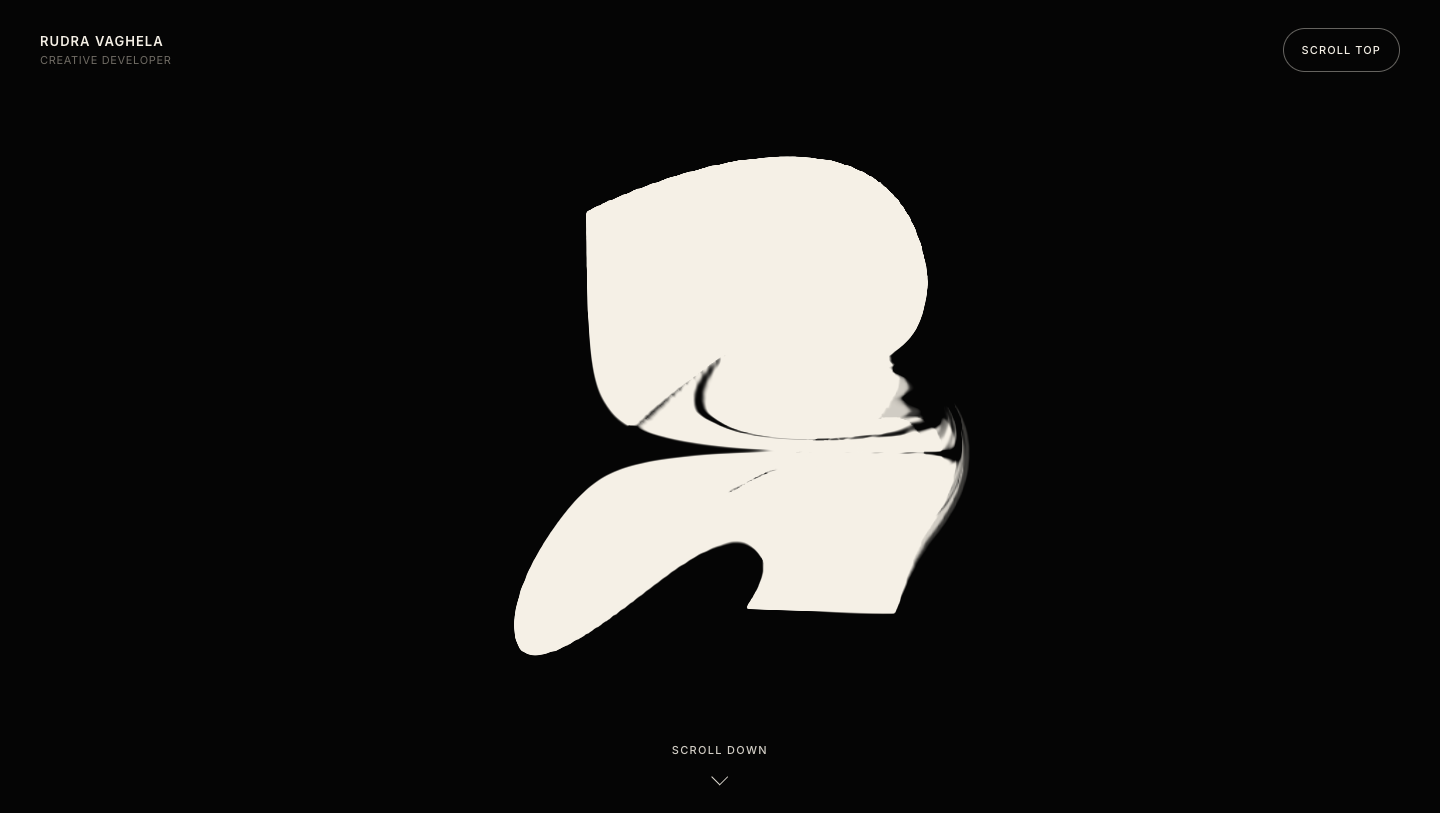
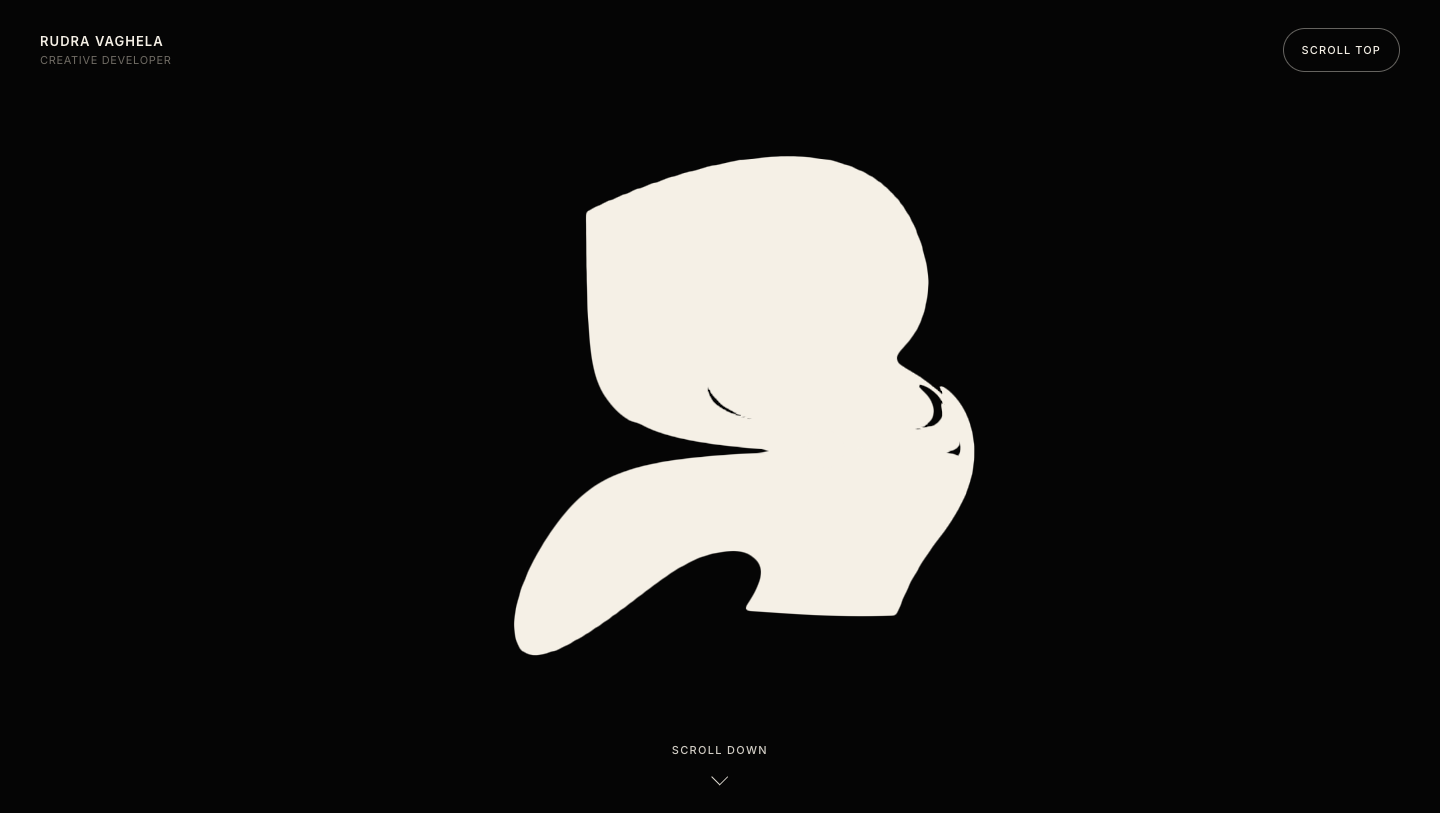
Smooth fluid boundary: 9-tap isotropic filter, laminar flow, eliminate bubble shedding and murky color blending

diff --git a/src/fluid.js b/src/fluid.js
@@ -33,17 +33,17 @@ export class FluidSimulation {
 
     const isMobile = typeof window !== 'undefined' && window.innerWidth < 768;
 
-    // Tuning Knobs: Sticky viscous dye with bounded deformation (packed jar cohesion)
+    // Tuning Knobs: Viscous cohesive fluid with silky-smooth boundary (no bubbles, no murky blending)
     this.config = {
       SIM_RESOLUTION: 128,         // Low-res velocity grid
       DYE_RESOLUTION: isMobile ? 512 : 1024, // High-res dye grid
       PRESSURE_ITERATIONS: isMobile ? 12 : 20, // Jacobi solver iterations
-      CURL_STRENGTH: 10.0,         // Viscous shear (smooth cohesion without wild turbulent eddies)
-      VELOCITY_DISSIPATION: 0.952, // Viscous damping (motion halts smoothly when cursor stops)
-      DYE_DISSIPATION: 0.992,      // Dense cohesive dye retention
+      CURL_STRENGTH: 0.0,          // Laminar flow: eliminates micro-vortices and bubble shedding
+      VELOCITY_DISSIPATION: 0.955, // Viscous damping (motion halts smoothly when cursor stops)
+      DYE_DISSIPATION: 0.998,      // Dense cohesive dye retention (no smoky fading)
       SPLAT_RADIUS: 0.0035,        // Tight, controlled local push
-      SPLAT_FORCE: 2600.0,         // Sticky fluid stirring strength (limited distortion)
-      RETURN_SPEED: 0.035,         // Fast, firm snap-back to logo in ~1 - 1.2 seconds
+      SPLAT_FORCE: 2500.0,         // Sticky fluid stirring strength (limited bounded distortion)
+      RETURN_SPEED: 0.035,         // Firm snap-back to logo in ~1.1 seconds
       MAX_DPR: isMobile ? 1.5 : 2.0,
       ...options,
     };
@@ -475,18 +475,17 @@ void main() {
       if (p.moved) {
         const aspect = this.canvas.clientWidth / this.canvas.clientHeight;
         const dist = Math.hypot(p.dx, p.dy * aspect);
-        // Interpolate splats along pointer trajectory for continuous liquid drag & stretch
         const steps = Math.max(1, Math.min(8, Math.ceil(dist / 0.012)));
-        const startX = p.prevX !== undefined ? p.prevX : (p.x - p.dx);
-        const startY = p.prevY !== undefined ? p.prevY : (p.y - p.dy);
+        const startX = p.x - p.dx;
+        const startY = p.y - p.dy;
         for (let s = 1; s <= steps; s++) {
           const t = s / steps;
           const ix = startX + p.dx * t;
           const iy = startY + p.dy * t;
           this.splat(ix, iy, p.dx, p.dy);
         }
-        p.prevX = p.x;
-        p.prevY = p.y;
+        p.dx = 0;
+        p.dy = 0;
         p.moved = false;
       }
     }
@@ -656,15 +655,13 @@ void main() {
       if (!p.initialized) {
         p.x = x;
         p.y = y;
-        p.prevX = x;
-        p.prevY = y;
+        p.dx = 0;
+        p.dy = 0;
         p.initialized = true;
         return;
       }
-      p.prevX = p.x;
-      p.prevY = p.y;
-      p.dx = (x - p.x);
-      p.dy = (y - p.y);
+      p.dx += (x - p.x);
+      p.dy += (y - p.y);
       p.x = x;
       p.y = y;
       p.moved = true;
